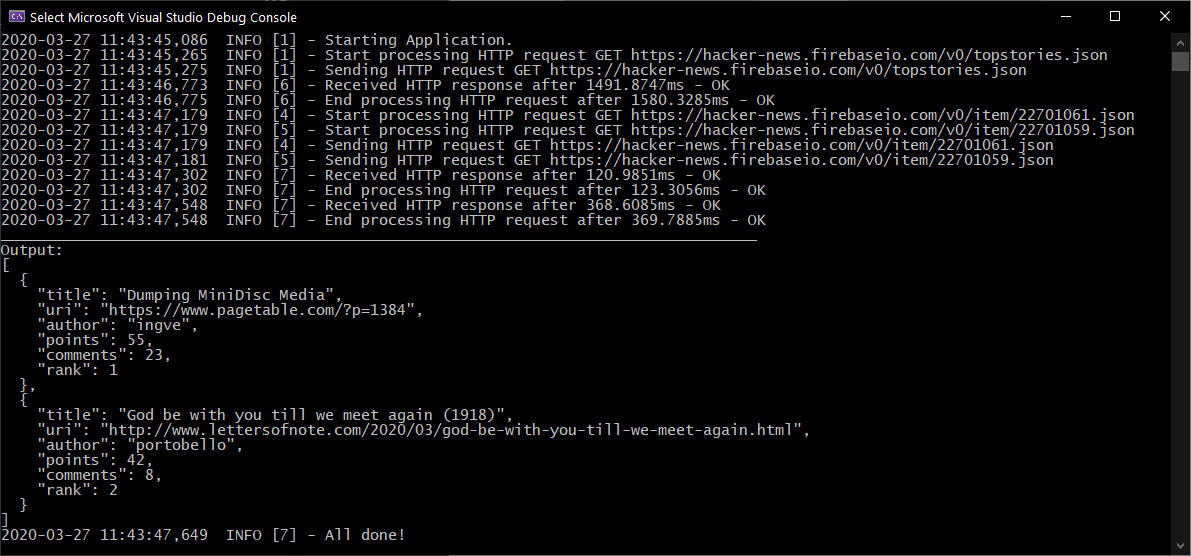
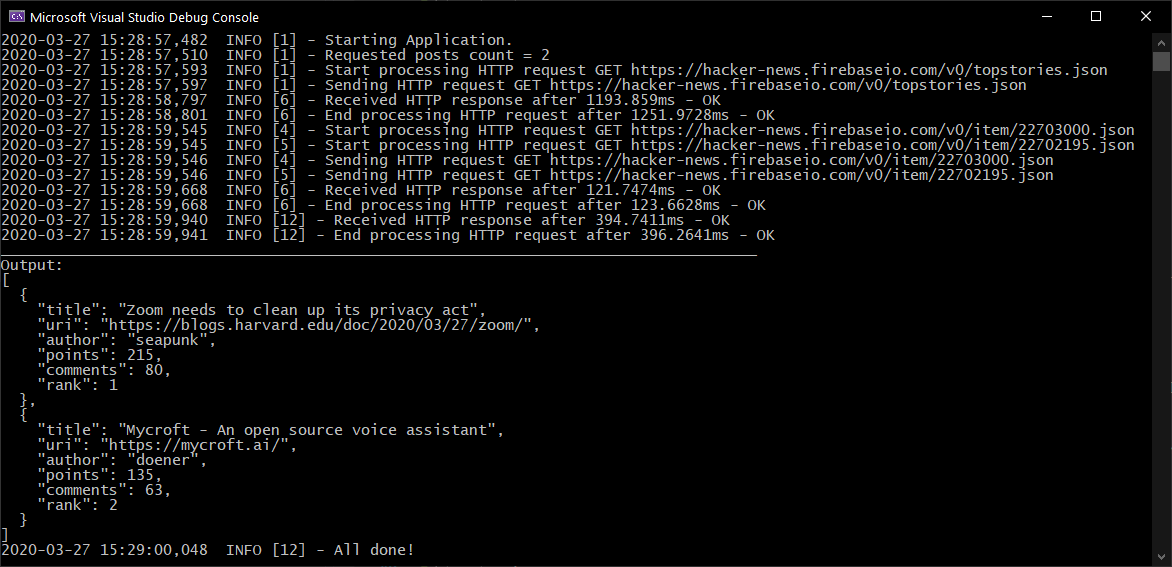
Add more detail to log

diff --git a/TrueLayer.HackerNews/Services/ApplicationService.cs b/TrueLayer.HackerNews/Services/ApplicationService.cs
@@ -38,15 +38,12 @@ namespace TrueLayer.HackerNews.Services
             _console.WriteLine(SerializeObject(newsItems));
         }
 
-        private static string SerializeObject(object objectData)
-        {
-            return JsonConvert.SerializeObject(objectData,
+        private static string SerializeObject(object objectData) => JsonConvert.SerializeObject(objectData,
                                                 new JsonSerializerSettings
                                                 {
                                                     ContractResolver = new CamelCasePropertyNamesContractResolver(),
                                                     Formatting = Formatting.Indented
                                                 });
-        }
 
         private int GetRequestedPostsCount(string[] args)
         {
@@ -56,6 +53,8 @@ namespace TrueLayer.HackerNews.Services
             {
                 Int32.TryParse(args[1], out postsCount);
             }
+
+            _logger.LogInformation("Requested posts count = " + (postsCount > 0 ? postsCount.ToString() : "default (top 100 posts)"));
 
             return postsCount;
         }

diff --git a/TrueLayer.HackerNews.Test/Services/ApplicationServiceTests.cs b/TrueLayer.HackerNews.Test/Services/ApplicationServiceTests.cs
@@ -59,15 +59,12 @@ namespace TrueLayer.HackerNews.Test.Services
             };
         }
 
-        private static string SerializeObject(object objectData)
-        {
-            return JsonConvert.SerializeObject(objectData,
-                                                new JsonSerializerSettings
-                                                {
-                                                    ContractResolver = new CamelCasePropertyNamesContractResolver(),
-                                                    Formatting = Formatting.Indented
-                                                });
-        }
+        private static string SerializeObject(object objectData) => JsonConvert.SerializeObject(objectData,
+                                        new JsonSerializerSettings
+                                        {
+                                            ContractResolver = new CamelCasePropertyNamesContractResolver(),
+                                            Formatting = Formatting.Indented
+                                        });
 
 
         [Fact]
